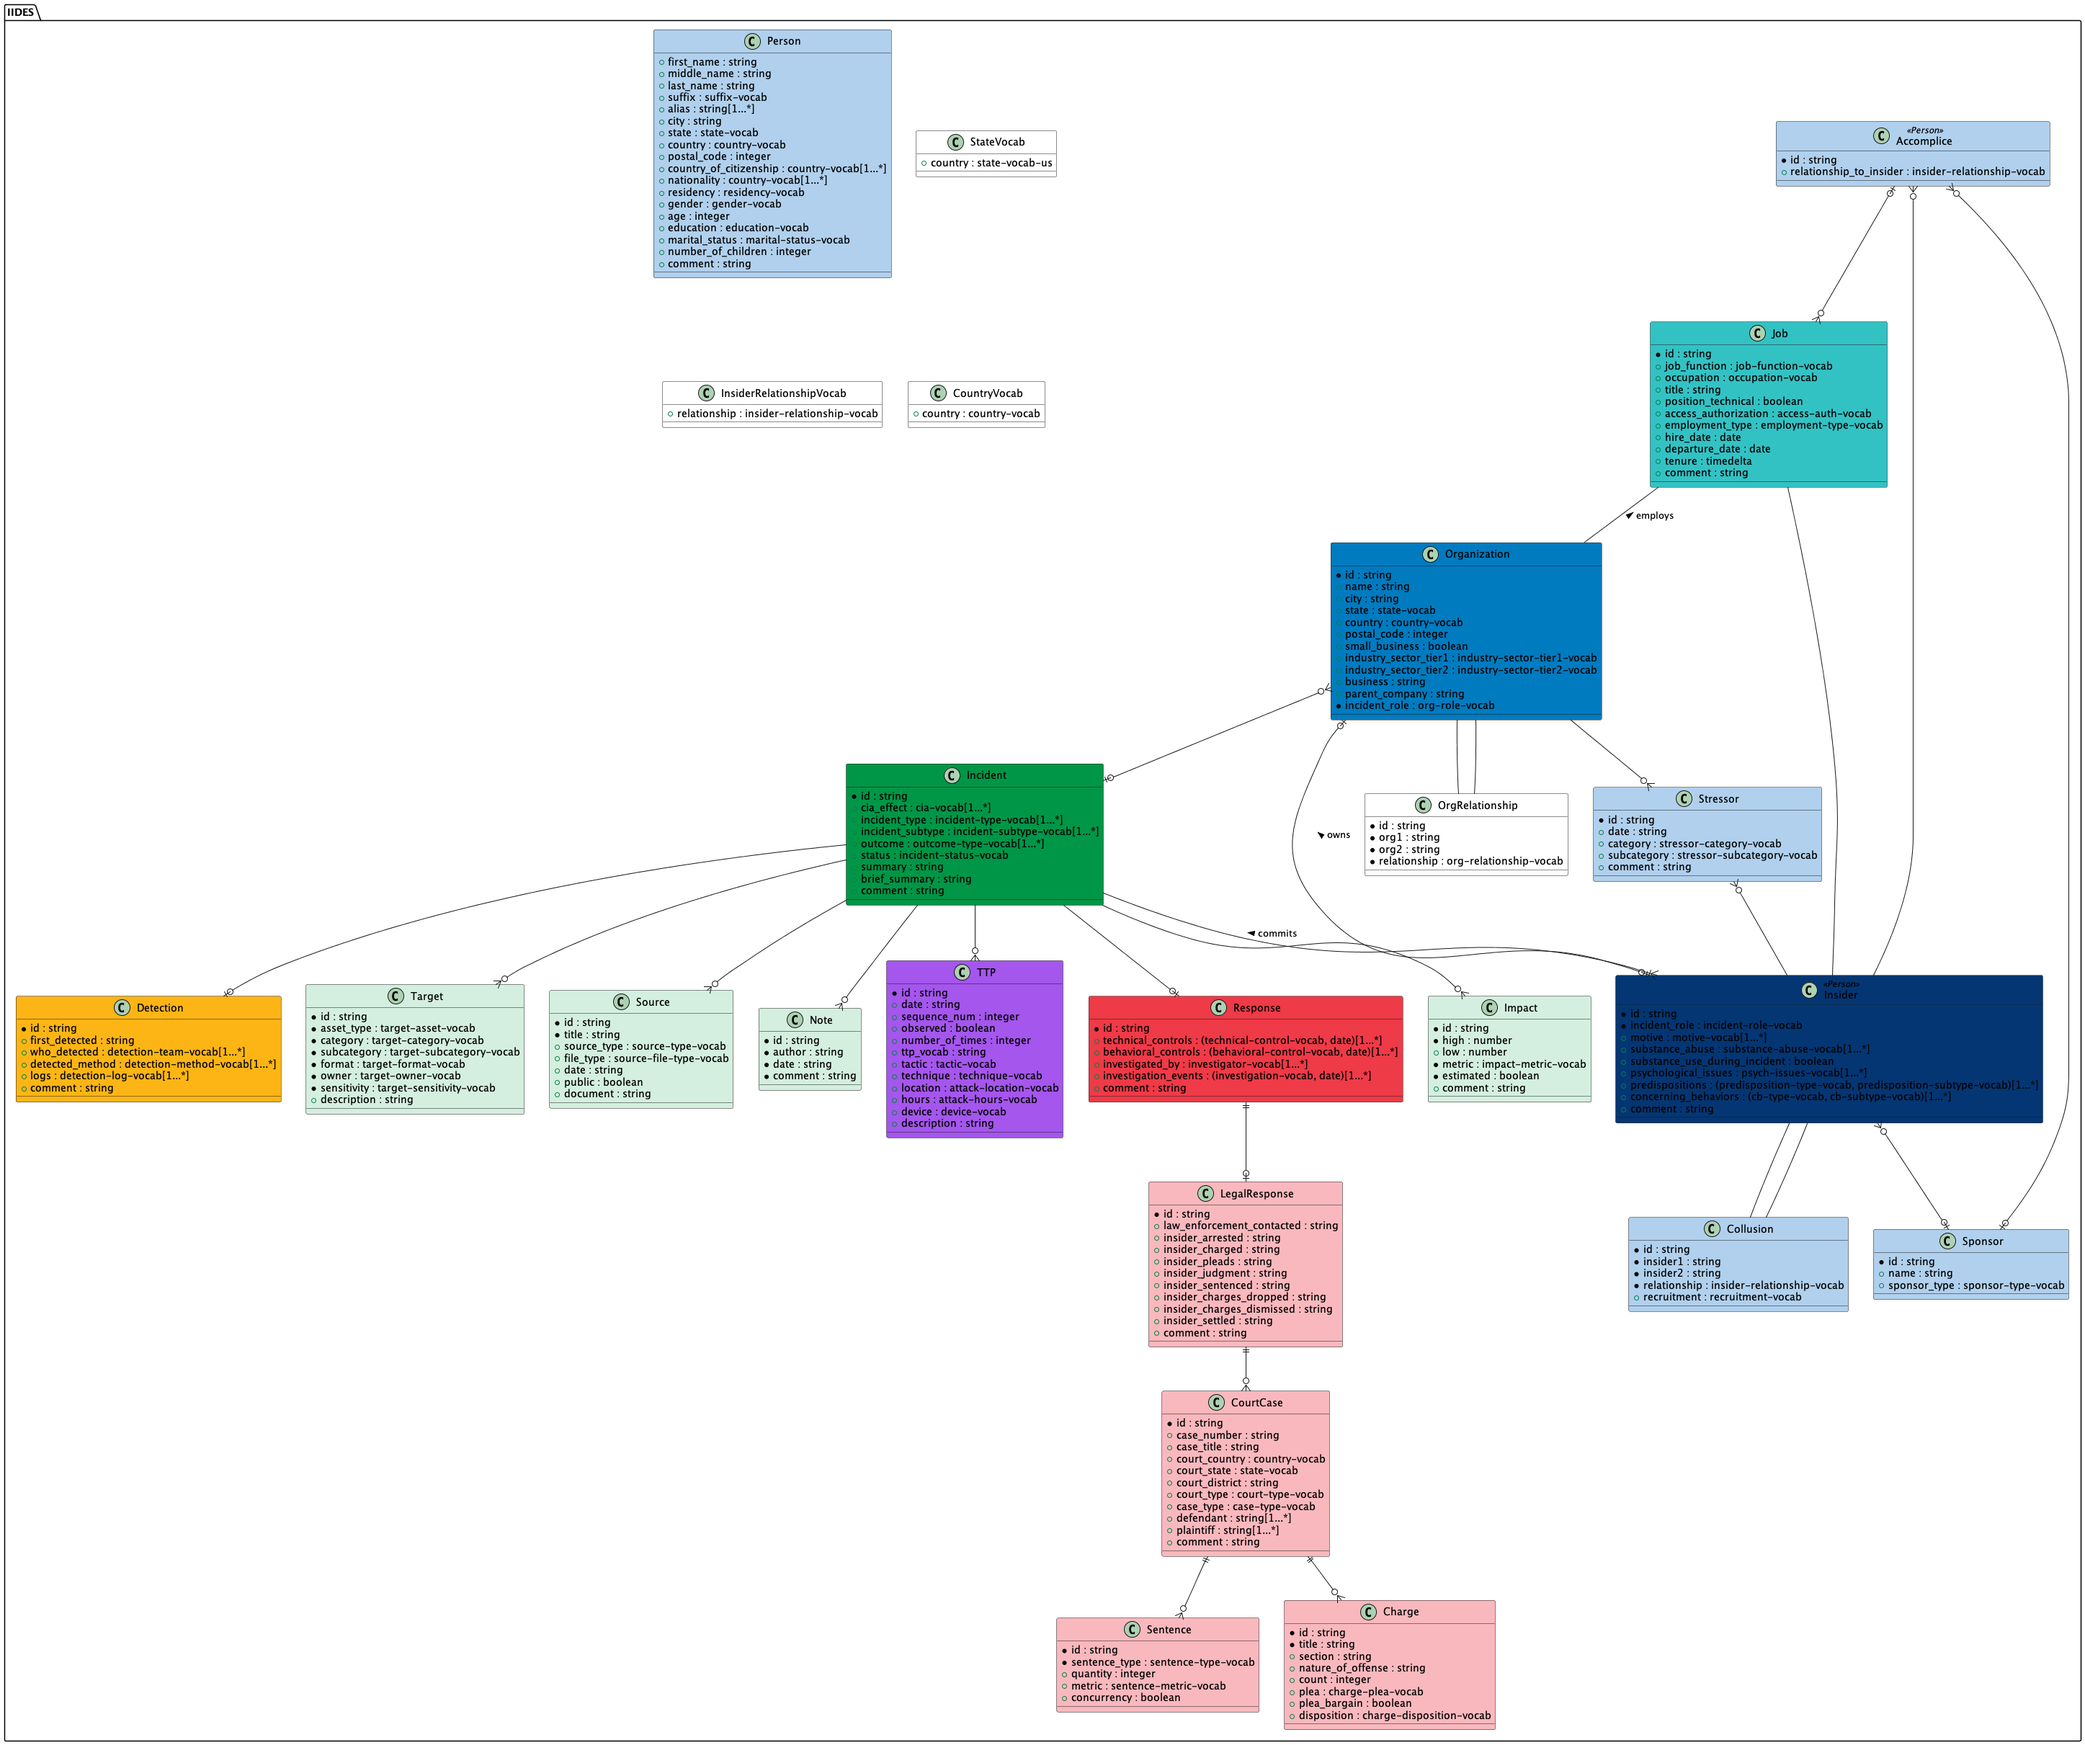
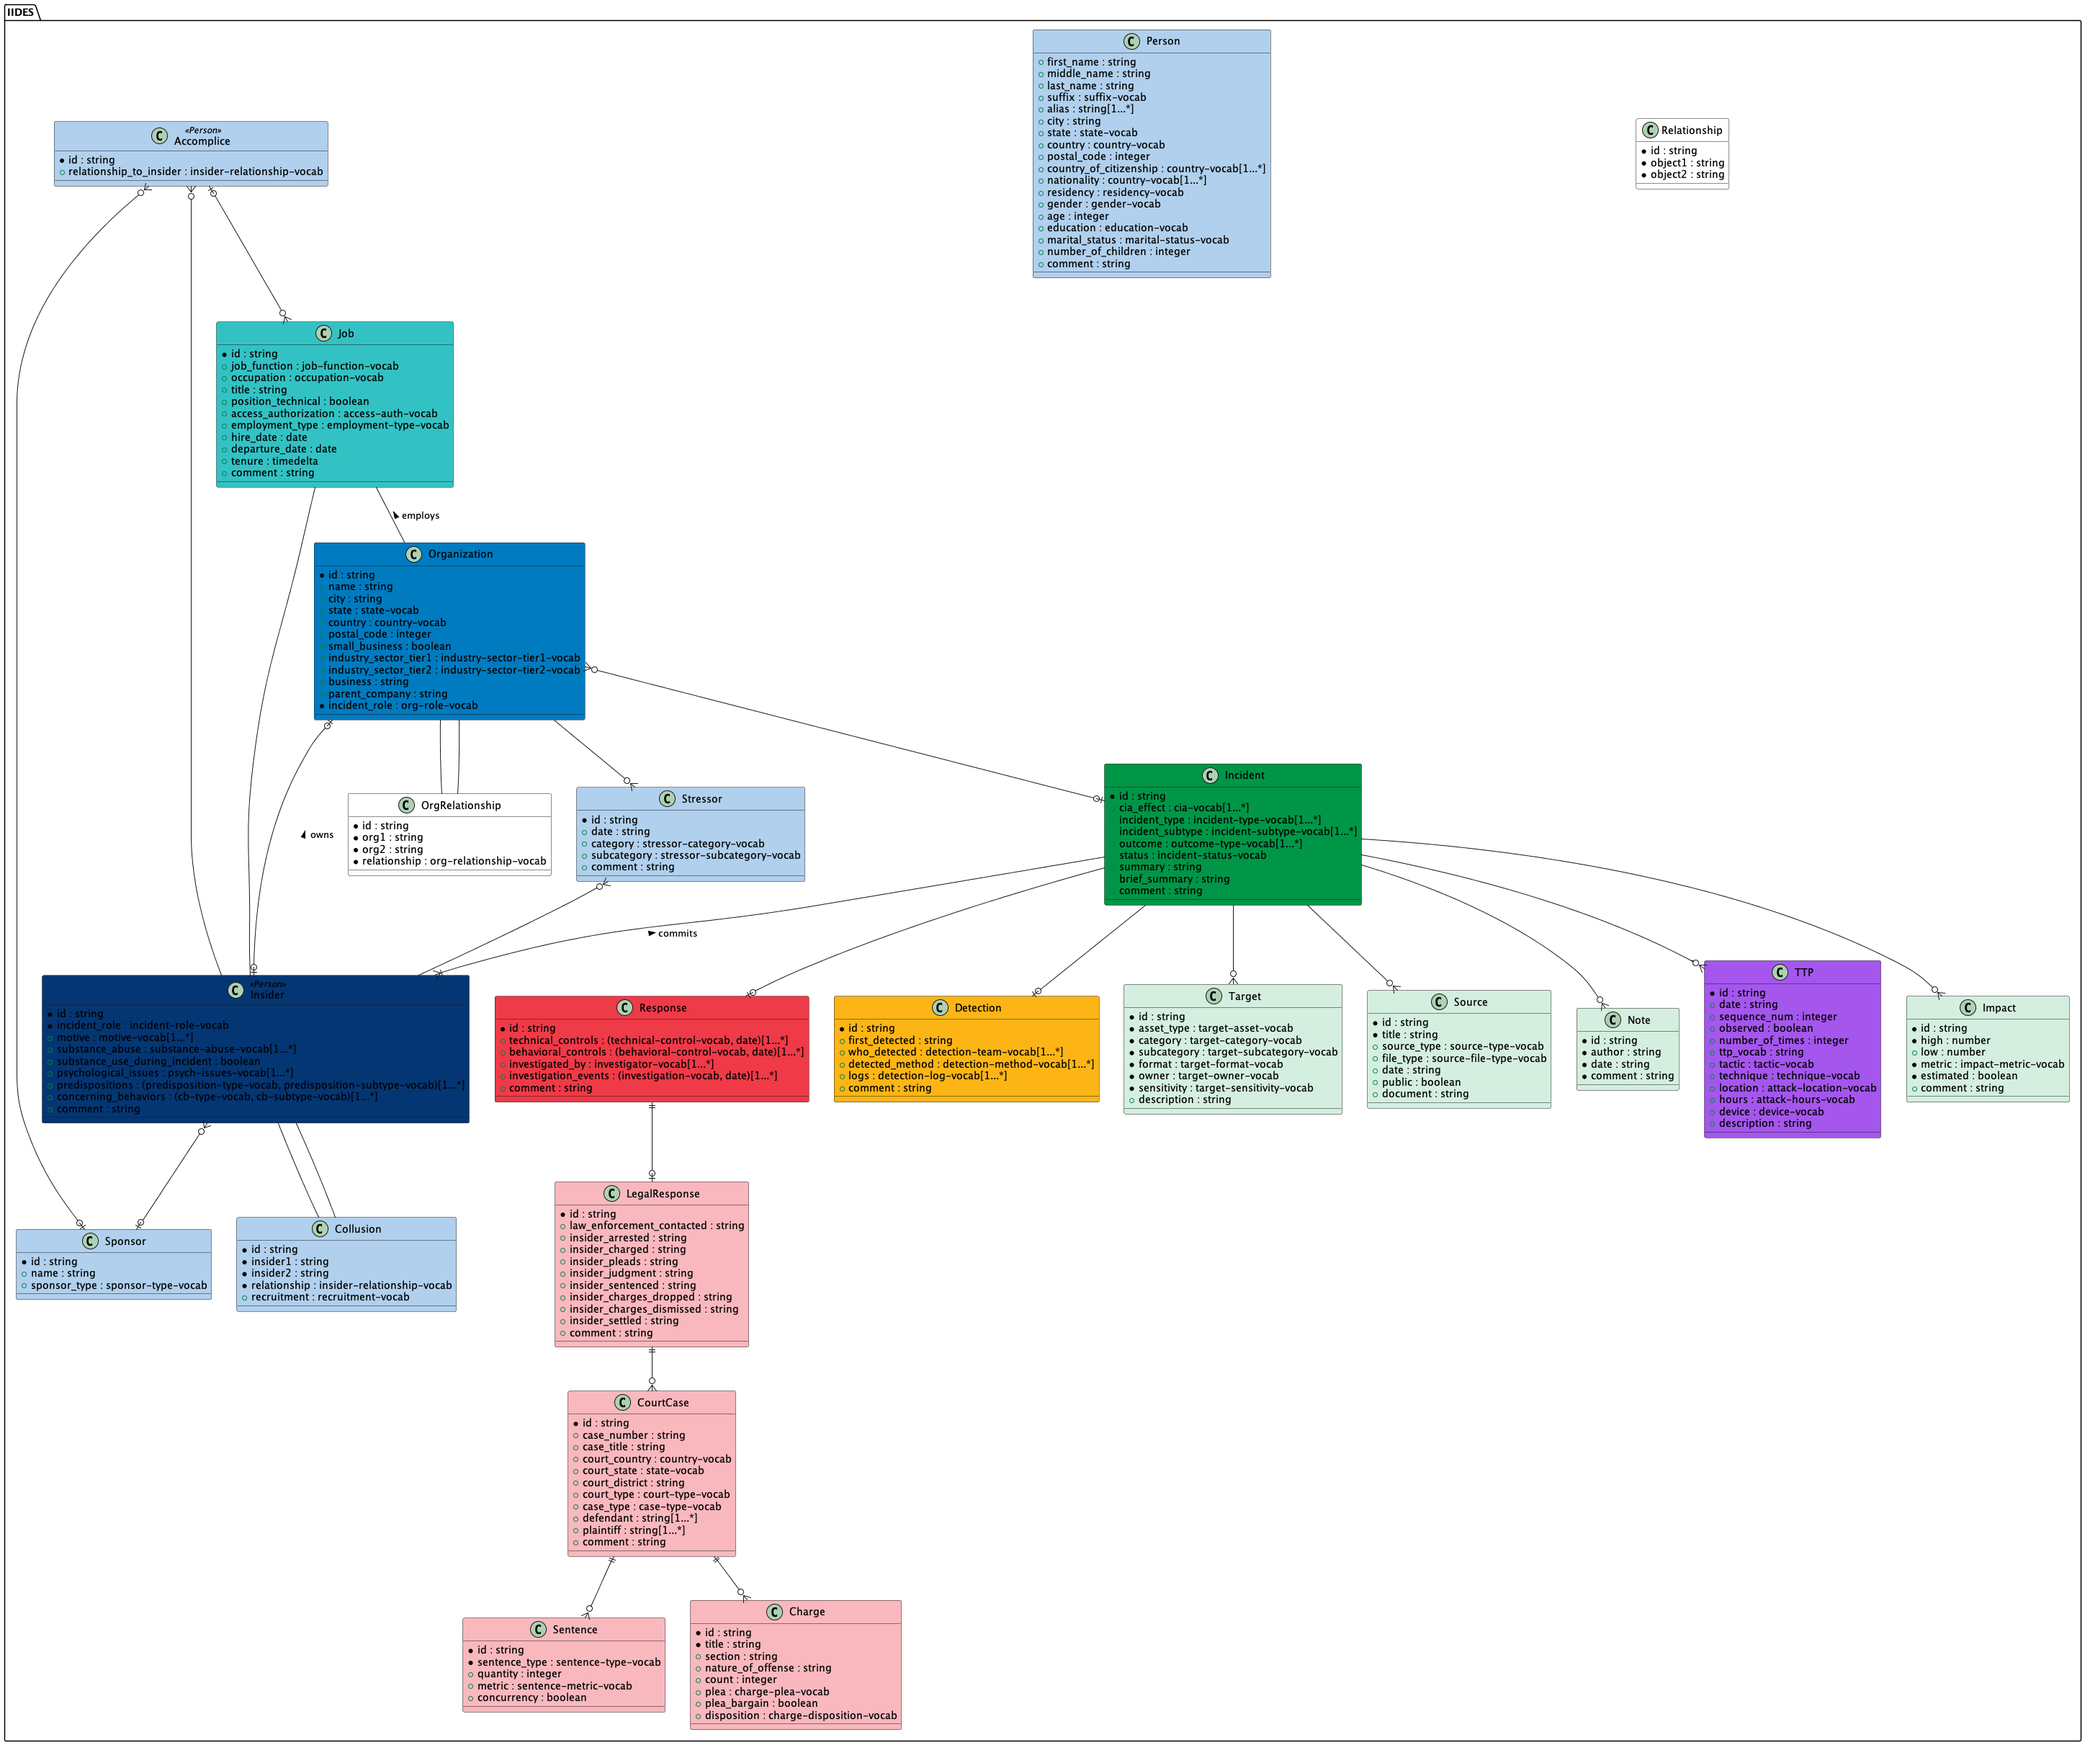
Add generic relationship entity

diff --git a/generate_erd.py b/generate_erd.py
@@ -28,7 +28,8 @@ color_map = {
     'State Vocab': '#FFFFFF',
     'Insider Relationship Vocab': '#FFFFFF',
     'Country Vocab': '#FFFFFF',
-    'Org Relationship': '#FFFFFF'
+    'Org Relationship': '#FFFFFF',
+    'Relationship': '#FFFFFF'
 }
 
 
@@ -37,7 +38,8 @@ def get_json_files():
     fnames = []
     for root, _, f_names in os.walk(JSON_PATH):
         for f in f_names:
-            fnames.append(os.path.join(root, f))
+            if "common" not in root:
+                fnames.append(os.path.join(root, f))
     return fnames
 
 

diff --git a/documentation/structs/relationship.md b/documentation/structs/relationship.md
@@ -1,0 +1,12 @@
+# Relationship
+
+TODO
+
+## Properties
+
+- **`id`** (required) *(string)* : TODO
+	- Uses pattern: ^relationship--[UUIDv4]
+- **`object1`** (required) *(string)* : TODO
+	- Uses pattern: ^XXXX--[UUIDv4]
+- **`object2`** (required) *(string)* : TODO
+	- Uses pattern: ^XXXX--[UUIDv4]

diff --git a/notes.md b/notes.md
@@ -32,6 +32,7 @@
 - [d] Country vocab
 - [d] State vocab
 - [c] Incident
+- [ ] Relationship struct
 - [ ] Organization (Marco)
 - [ ] Org Relationship
 - [ ] Person (Marco)
